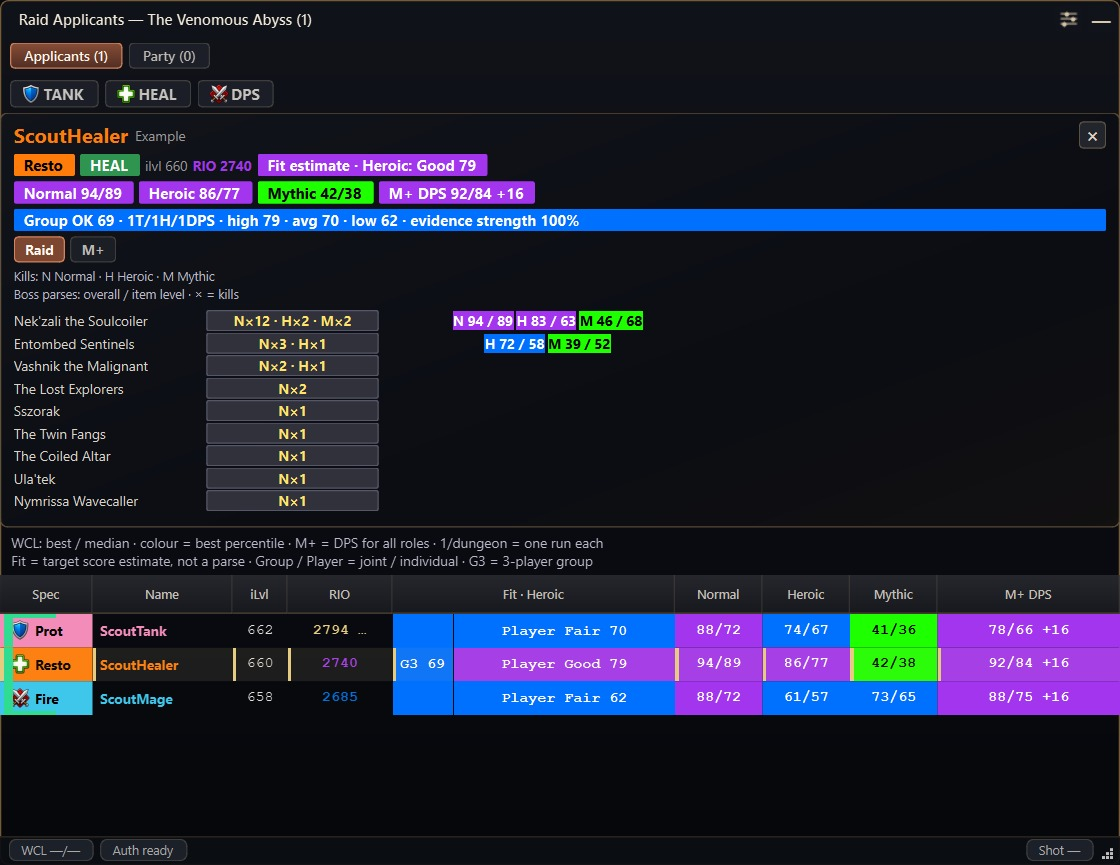
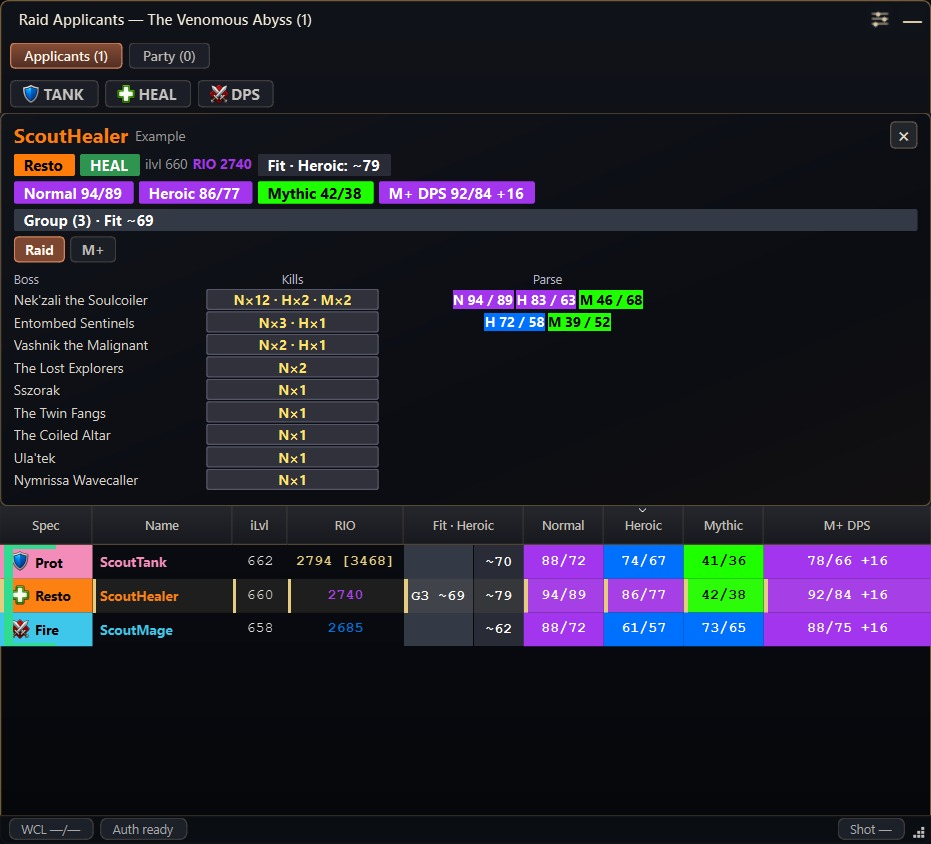
chore: prepare paired addon 0.10.1 release [T2-165]

diff --git a/README.md b/README.md
@@ -76,17 +76,17 @@ folder name for WoW.
 - RaiderIO current score, optional main-score context, and local RaiderIO
   dungeon/raid evidence when the RaiderIO addon data is available.
 - Role, item level, grouped-applicant packages, and per-player rows.
-- A separate Fit column for the target key or raid, alongside coloured Normal,
-  Heroic, Mythic, and M+ WCL results with a visible metric legend.
+- A neutral Fit estimate such as **~65** for the target key or raid, alongside
+  coloured Normal, Heroic, Mythic, and M+ WCL results for the applying specialization.
+  Compact headers and tooltips explain the values without filling the table with text.
 - Target-key fit, dungeon history, and low-evidence markers for Mythic+.
 - Current party/raid roster context after invites or after joining a group.
 - Optional playstyle and Auto Hi controls for in-game quality-of-life.
 
 Mythic+ Fit estimates how the available evidence matches the target key; it is
 not a success probability or a Warcraft Logs percentile. The companion combines
-named RaiderIO and WCL evidence once per dungeon and shows key experience
-separately from evidence strength and dungeon coverage. Existing percentile
-colours remain the visual scale.
+named RaiderIO and WCL evidence once per dungeon. Hover Fit for evidence strength,
+dungeon coverage and limitations. WCL results keep their percentile colours.
 M+ WCL values measure damage for every role, including tanks and healers; they
 do not measure healing, survival, or utility.
 

diff --git a/CHANGELOG.md b/CHANGELOG.md
@@ -1,5 +1,15 @@
 # Changelog
 
+## 0.10.1 - 09-Sep-2026 - Compact scouting and reliable updates
+
+Paired release with ApplicantScout Companion `0.17.0`.
+
+- The paired companion uses compact numeric results, neutral Fit estimates,
+  listing-specific parse sorting and an adaptive, scrollable detail card.
+- Raid results match the applying specialization, and displayed percentiles
+  stay consistent with their WCL colours.
+- Refresh overlay screenshots and descriptions for the compact layout.
+
 ## 0.10.0 - 08-Sep-2026 - Clearer scouting and setup
 
 Paired release with ApplicantScout Companion `0.16.0`.
